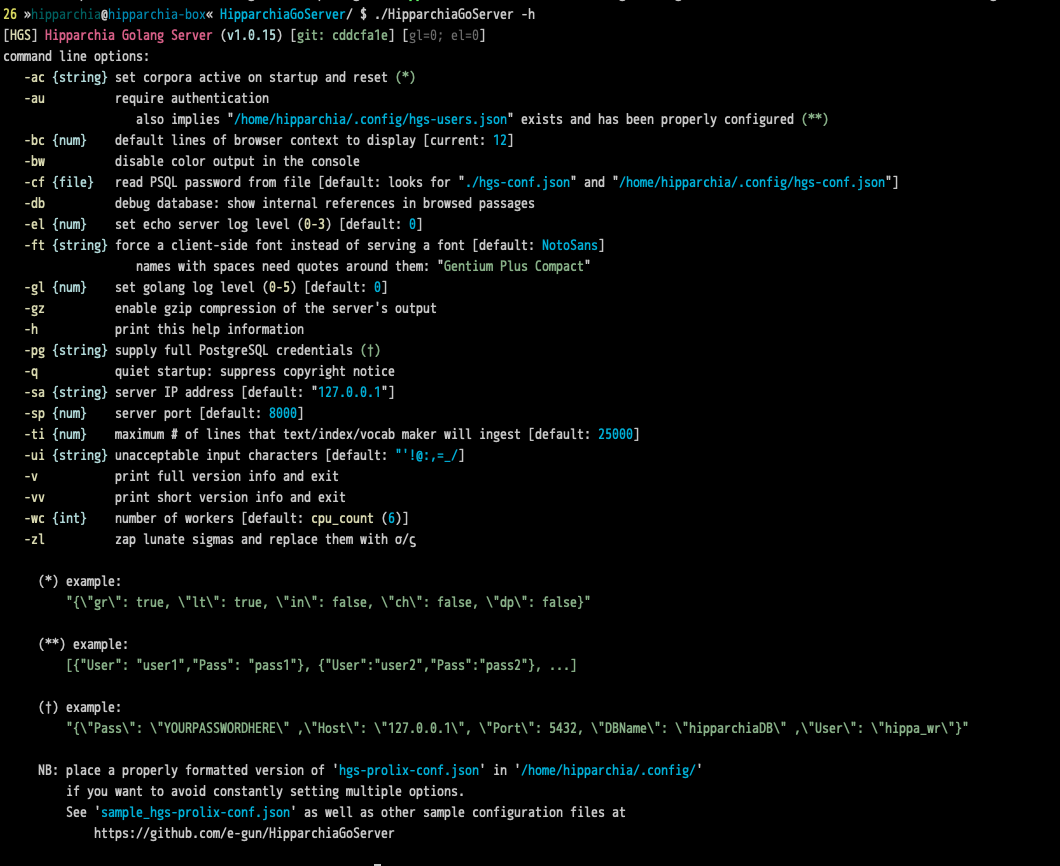
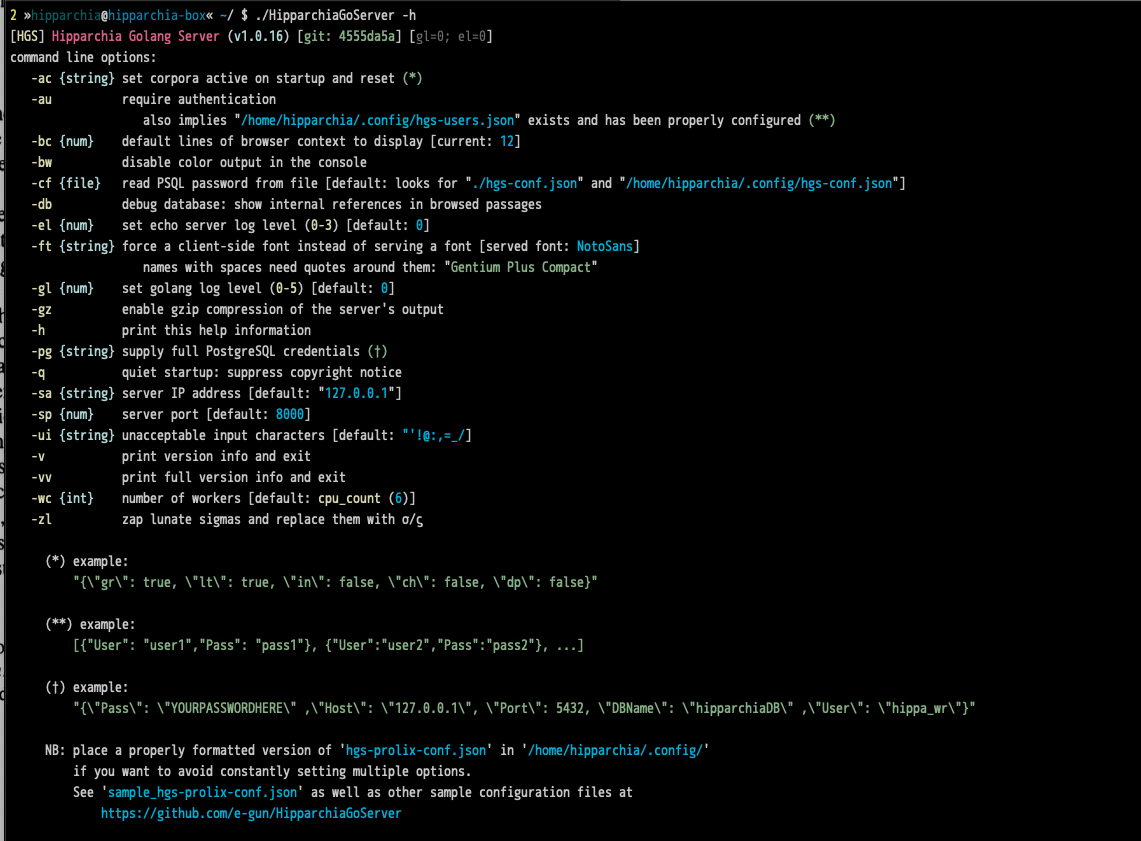
tidy up for release of 1.0.16

Changed region(s): [[0.0, 0.0, 0.9028, 1.0]]

diff --git a/rt-embhcss.go b/rt-embhcss.go
@@ -9,28 +9,6 @@ import (
 	"text/template"
 )
 
-//const (
-//	TEST = `
-//dictionaryentry{
-//	color: var(--rustedorange);
-//	font-family: 'hipparchiasemiboldstatic', sans-serif;
-//}
-//
-//dictionaryentry:hover{
-//	border-bottom: 1px dotted black;
-//	border-top: 1px dotted black;
-//	color: var(--dkbabyblue);
-//	font-family: 'hipparchiasemiboldstatic', sans-serif;
-//	text-shadow: 1px 1px 3px var(--transparentgrey);
-//}
-//`
-//)
-
-//func main() {
-//	fmt.Println(TEST)
-//	fmt.Println(cssmanualfontstyling(TEST))
-//}
-
 // RtEmbHCSS - send "hipparchiastyles.css" after building it as per the configured font settings
 func RtEmbHCSS(c echo.Context) error {
 	const (
@@ -41,7 +19,7 @@ func RtEmbHCSS(c echo.Context) error {
 	fsub := Config.Font
 	sdf := "var(--systemdefaultfont), "
 
-	// if the font is local, then blank out "--systemdefaultfont" and get ready to map the font files into the CSS
+	// if the font is being served, then blank out "--systemdefaultfont" and get ready to map the font files into the CSS
 	if IsInSlice(Config.Font, StringMapKeysIntoSlice(ServableFonts)) {
 		fsub = ""
 		sdf = ""
@@ -67,6 +45,8 @@ func RtEmbHCSS(c echo.Context) error {
 	chke(err)
 
 	css := b.String()
+
+	// if the font is not being served, then replace font names with explicit style directives
 	if !IsInSlice(Config.Font, StringMapKeysIntoSlice(ServableFonts)) {
 		css = cssmanualfontstyling(css)
 	}
@@ -96,7 +76,7 @@ type FontTempl struct {
 }
 
 // the fonts we know how to serve: only one installed ATM
-// NB: Fira, Inter, and Ubuntu have all been toyed with: none are really as good as NotoSans...
+// NB: Fira, Inter, and Ubuntu have all been toyed with: none are really as good as NotoSans
 
 var (
 	NotoFont = FontTempl{

diff --git a/rt-frontpage.go b/rt-frontpage.go
@@ -26,16 +26,22 @@ func RtFrontpage(c echo.Context) error {
 	user := readUUIDCookie(c)
 	s := AllSessions.GetSess(user)
 
-	env := fmt.Sprintf("%s: %s - %s (%d workers)", runtime.Version(), runtime.GOOS, runtime.GOARCH, Config.WorkerCount)
-
 	ahtm := AUTHHTML
 	if !Config.Authenticate {
 		ahtm = ""
 	}
 
+	gc := GitCommit
+	if gc == "" {
+		gc = "UNKNOWN"
+	}
+	ver := fmt.Sprintf("Version: %s [git: %s]", VERSION, gc)
+
+	env := fmt.Sprintf("%s: %s - %s (%d workers)", runtime.Version(), runtime.GOOS, runtime.GOARCH, Config.WorkerCount)
+
 	subs := map[string]interface{}{
 		"version":       VERSION,
-		"longver":       fmt.Sprintf("Version: %s [git: %s]", VERSION, GitCommit),
+		"longver":       ver,
 		"authhtm":       ahtm,
 		"env":           env,
 		"user":          "Anonymous",

diff --git a/README.md b/README.md
@@ -29,6 +29,10 @@
 * add about 125MB of RAM per postgres client connection in the pool
 * a very heavy search like "all forms of Πόλιϲ near..." can kick you up into 660MB
 
+### MINIMUM VERSION OF GOLANG REQUIRED TO BUILD
+* go 1.19
+* `searchstructs.go` uses `atomic.Int64` from `sync/atomic`. `atomic.Int64` was added in go 1.19.
+
 ![options](gitimg/hgscli.png)
 
 ![workflow](gitimg/hipparchia_workflow.svg)
@@ -36,17 +40,17 @@
 ```
 % cloc *go
 
-      30 text files.
-      30 unique files.                              
+      31 text files.
+      31 unique files.                              
        0 files ignored.
 
-github.com/AlDanial/cloc v 1.96  T=0.03 s (1067.5 files/s, 434008.9 lines/s)
+github.com/AlDanial/cloc v 1.96  T=0.03 s (1078.6 files/s, 432137.0 lines/s)
 -------------------------------------------------------------------------------
 Language                     files          blank        comment           code
 -------------------------------------------------------------------------------
-Go                              30           1832           1702           8663
+Go                              31           1864           1746           8810
 -------------------------------------------------------------------------------
-SUM:                            30           1832           1702           8663
+SUM:                            31           1864           1746           8810
 -------------------------------------------------------------------------------
 
 ```
